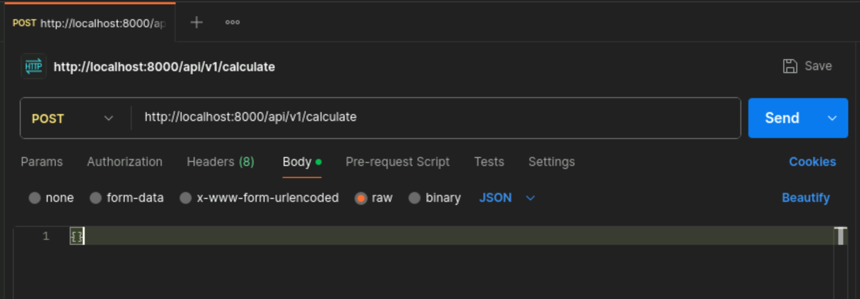
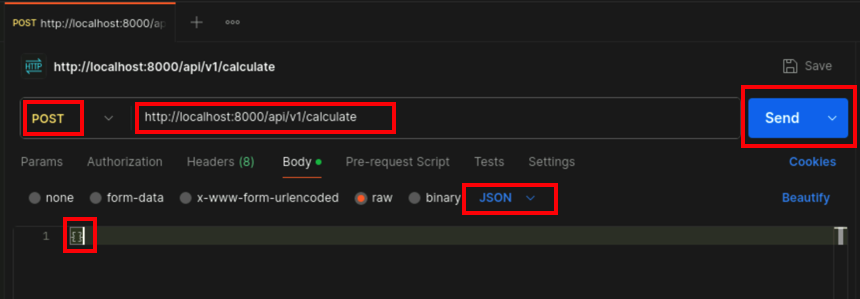
JSK edits 1

diff --git a/content/01HTTP/Task2.md b/content/01HTTP/Task2.md
@@ -6,17 +6,40 @@ weight: 5
 
 **According to the "manpage":** netcat is  a simple unix utility which reads and writes data across network connections, using TCP or UDP protocol. It is designed to be a reliable "back-end" tool  that  can  be used  directly or easily driven by other programs and scripts.  At the same time, it is a feature-rich network debugging and exploration tool, since it can create almost any  kind of  connection you would need and has several interesting built-in capabilities.  Netcat, or "nc" as the actual program is named, should have been supplied long ago as another one of those cryptic but standard Unix tools.
 
-We will be using cetcat to craft http calls to our flask application.  These will all be made against "localhost", but it could just as easily use a public URL.
+We will be using Netcat to craft a series of HTTP calls to our flask application and observing the resulting actions.  We are using "localhost" as our destination because we are executing NC from the same Kali Linux instance that's hosting the Flask Web App, but it could just as easily use a public URL.
 
-## Make your first call
-For this first example, we want to use Wireshark to watch the interaction between netcat and the server.
+## Make your first web call
+For this first example, we want to use Wireshark to watch the interaction between netcat and the Flask web server.
 
 - In wireshark, select **Loopback:lo** as the interface and enter ```host 127.0.0.1 and port 8000``` into the capture filter
 
 ![Shark start](shark_start.png)
 
+{{% notice warning %}} 
 
-- Back in our Terminal, let's start the tcp connection
+Please take care when entering the commands below. Please enter the commands **one line at a time**, and be sure to hit enter twice after each web command. 
+
+  For Example:
+  
+  1. Open the TCP 3-way handshake and wait for the return
+    
+  ```
+  nc localhost 8000 -vvv
+  ```
+
+  2. Enter the HTTP request
+
+  ```
+  GET /hello HTTP/1.1
+  ``` 
+
+  3. Hit enter 2 times>
+  
+{{% /notice %}}
+
+
+
+- From the 2nd ssh session terminal to Kali Linux, let's start the tcp connection
 
 ```
 nc localhost 8000 -vvv
@@ -28,14 +51,12 @@ nc localhost 8000 -vvv
 
 - Now let's finish the call by adding L7 comonents 
 
-{{% notice info %}} When making the below calls, you will not want to try and paste them in all at once.  Please enter the commands **one line at a time**. {{% /notice %}}
-
 ```
 GET /hello HTTP/1.1
 <hit enter again>
 ```
 
-- You should see some response headers returned as well as the programmed response from the app. We can see the **200 OK** status, meaning that our application is actually working and we called a valid resource.
+- You should see some response headers returned as well as the programmed response from the app. We can see the **200 OK** status, meaning that our application is actually working and we requested a valid resource.
 
   ![GET Hello](nc_get_hello.png)
 
@@ -56,11 +77,14 @@ We also get some other useful information about the application, including the A
 
 ## Method Not Allowed
 
-- In our first call above, we used the **GET** method against http://localhost:8000/hello.  Let's try the same thing against a different URL
+- In our first call above, we used the **GET** method against http://localhost:8000/hello.  Let's try the same thing against a different resource
 
 
 ```
 nc localhost 8000 -vvv
+```
+
+```
 GET /login  HTTP/1.1
 <hit enter again>
 ```
@@ -71,7 +95,7 @@ GET /login  HTTP/1.1
 
 </details>
 
-- As you can see, we got the **Method Not Allowed (405)** error. In the example output, you can see that we only allow **POST** and **OTIONS** methods.
+- As you can see, we got the **Method Not Allowed (405)** error. In the example output, you can see that we only allow **POST** and **OPTIONS** methods for the /login resource.
 
 ## Form Data
 
@@ -79,6 +103,8 @@ The FormData interface provides a way to construct a set of key/value pairs repr
 
 ```
 nc localhost 8000 -vvv
+```
+```
 POST /login HTTP/1.1
 Content-Type: application/x-www-form-urlencoded
 Content-Length: 34
@@ -100,6 +126,9 @@ JavaScript Object Notation (JSON) is a text-based format for representing and ex
 
 For mor information about JSON, click on [this link](https://www.w3schools.com/js/js_json_intro.asp).
 
+```
+nc localhost 8000 -vvv
+```
 ```
 POST /save HTTP/1.1
 Content-Type: application/json

diff --git a/content/02API/Task2.md b/content/02API/Task2.md
@@ -47,11 +47,11 @@ Postman
 
 ## Interact with REST API using HTTP Post
 HTTP POST is not another tool, it is a different communication method used by APIs to send data to the server. You can use e.g. `curl` or `Postman` to send a POST request to the API. In this task you are free to use the tool of your choice.
-1. Use `curl` or `Postman` to send a POST request to the API endpoint `http://localhost:8000/api/v1/calculator` and review the output. In the Body, add empty JSON object `{}` and select `JSON` in the dropdown.
+1. Use `curl` or `Postman` to send a POST request to the API endpoint `http://localhost:8000/api/v1/calculate` and review the output. In the Body, add empty JSON object `{}` and select `JSON` in the dropdown.
 ![img_5.png](img_5.png)
 If you use curl, a http header needs to be added to the request:
 ```bash
-curl -X POST 'http://localhost:8000/api/v1/calculator' -H 'Content-Type: application/json' -d '{}'
+curl -X POST 'http://localhost:8000/api/v1/calculate' -H 'Content-Type: application/json' -d '{}'
 ```
 ![img_6.png](img_6.png)
 2. Try to walk through the error messages (or the code) to understand, which parameters need to be provided to get a successful api response.
@@ -59,8 +59,8 @@ Hint: Example Payload:
 ```json
 {
     "operation": "add",
-    "number1": 1,
-    "number2": 2
+    "num1": 1,
+    "num2": 2
 }
 ```
 3. Test the endpoint with different operations like `add`, `subtract`, `multiply`, `divide` and review the output. Use different tools to send the requests.

diff --git a/content/02API/Task3.md b/content/02API/Task3.md
@@ -75,6 +75,7 @@ Postman
 ```
 ![img_11.png](img_11.png)
 13. Click on `Query` and review the output.
+
 14. Lets advance our GraphQL skills and adjust the queries using variables. Enter the following query:
 ```graphql
 query LaunchDetails($id: ID!) {
@@ -100,6 +101,7 @@ query LaunchDetails($id: ID!) {
 ![img_12.png](img_12.png)
 ![img_13.png](img_13.png)
 16. Click on `Query` and review the output.
+
 17. To get some more practice, try to write your own queries and explore the SpaceX API.
     - List the last 5 launches with their mission names and launch dates.
 {{% expand title="Solution" %}}
@@ -170,7 +172,13 @@ Postman
 ![img_14.png](img_14.png)
 6. Change the request type to `POST` and enter the URL `https://www.crcind.com/csp/samples/SOAP.Demo.cls`
 ![img_16.png](img_16.png)
-7. Click on the "Headers" tab. Add a new header with the key `Content-Type` and the value `text/xml` and `SOAPAction` with the value `http://tempuri.org/SOAP.Demo.GetByName`
+7. Click on the "Headers" tab. Add 2 new headers with the following key/value pairs:
+
+Key | Value
+--- | ---
+`Content-Type` | `text/xml`
+`SOAPAction` | `http://tempuri.org/SOAP.Demo.GetByName`
+
 ![img_19.png](img_19.png)
 8. Click on the "Body" tab. Select the `raw` option and enter the following XML:
 ```xml

diff --git a/content/01HTTP/Task3.md b/content/01HTTP/Task3.md
@@ -14,6 +14,7 @@ Almost all browsers have developer toolkits.  Below are some notable examples:
 ## Open Firefox and Developer Tools
 
 
+- Go to your Kali Linux RDP session
 - Open Firefox from the top left menu bar and navigate to **http://localhost:8000/**
 - Right click anywhere on the screen, which will cause a menu to pop up.  At the bottom of that menu, click on **Inspect(Q)**
   - This will cause "Web Developer Tools" to open at the bottom of the screen.  
@@ -70,7 +71,7 @@ On the left hand side of this screen is the "Storage tree", which lists all of t
 ![No Cook](no_cook.png)
 
 - Back on the web page (http://localhost:8000/view_feedback), click the link below the GIF to give feedback.
-  - Enter the Username (student) and Password (Fortinet1!) and select **Sign In**
+  - Enter the Username ```student``` and Password ```Fortinet1!``` and select **Sign In**
   - Type a name and some feedback into the appropriate boxes and click **Submit**
   
 - Back on the Storage tree, expand the Cookies Section and you will notice that you now have a cooked with a key/value of "name/whatever name you entered" in the "Table Widget" to the right of the Storage Tree

diff --git a/content/02API/Task4.md b/content/02API/Task4.md
@@ -4,7 +4,7 @@ menuTitle: "Task 4 - Advanced API handling"
 chapter: false
 weight: 4
 ---
-In this lab you will explore more advanced API handling techniques. This will based upon the previous labs and will require you to use the tools you have learned about.
+In this lab you will explore more advanced API handling techniques. This will build upon the previous labs and require you to use the tools you have learned about.
 We will cover topics like OAuth and JWT tokens, API security, and API testing.
 
 ## Documentation of APIs (aka Swagger UI)
@@ -62,6 +62,9 @@ def protected():
         return jsonify({"message": "OK: Authorized"}), 200
 ```
 9. Configure the HTTP header `X-API-KEY` with the correct value identified in the Flask Python code.
+10. Key | Value
+--- | ---
[1 lines of base64/hex data omitted]
 ![img_30.png](img_30.png)
 10. You can now try to access the protected endpoint with the correct token. You should receive a `200 OK` response.
 ![img_31.png](img_31.png)

diff --git a/content/01HTTP/_index.md b/content/01HTTP/_index.md
@@ -18,11 +18,15 @@ weight: 10
 
 For this lab, we will only need to interact with the Kali linux device.  We will use guacamole to create an RDP session in your browser.
 
-- In your browswer window, typ in the url below, substituting your Kali server IP.
+- In your browser window, type in the url below, substituting your Kali server IP.
 
-```
-https://<kali-IP>:8443
-```
+  {{% notice warning %}}
+  Kali Linux takes about 20 minutes to fully deploy, so you may get a connection refused error.  Please be patient and the login prompt will eventually appear.
+  {{% /notice %}}
+
+  ```
+  https://<kali-IP>:8443
+  ```
 - Accept all warnings and proceed to the site.
 - You will be prompted to login to Apache Guacamole.  
   - Type **guacadmin** for Username and enter **S3cur3P4ssw0rd123!**

diff --git a/content/01HTTP/Task1.md b/content/01HTTP/Task1.md
@@ -9,8 +9,8 @@ More information about Flask can be found at the [Flask documentation page](http
 
 
 
-## Navigate to the device CLI
-For this exercise, we will be using a very simple flask application.  Students will start the application within a python virtual environment. It us useful to monitor the debug messages for the application during user interactions. 
+## Navigate to the Kali Linux CLI
+For this exercise, we will be using a very simple flask application.  Students will start the application within a python virtual environment. It is useful to monitor the debug messages for the application during user interactions. 
 
 - We will be opening two CLI connections to Kali.  If you have the ability to ssh from your laptop, you can open two sessions:
 

diff --git a/content/02API/_index.md b/content/02API/_index.md
@@ -5,8 +5,9 @@ menuTitle: "Module 2: HTTP API Fundamentals"
 weight: 20
 ---
 
-In this Module it will be all about API's. We will start with the basics and then move on to more advanced topics.
-Topics:
+This Module covers API's starting with basics and then moving on to more advanced topics.
+
+### Topics:
 - interact with various types of API's using various tools
 - how to authentication is handled
 - how to document API's

diff --git a/content/00GettingStarted/_index.md b/content/00GettingStarted/_index.md
@@ -6,7 +6,7 @@ weight: 5
 
 ## Student Setup Diagram
 
-Each Student wil have it's own environment for the lab. The following diagram provides an overview on how the Student environment is rolled out.
+Each Student will have their own environment for the lab. The following diagram provides an overview of the Student environment.
 
    ![setup](/images/env_diagram.png)
 

diff --git a/content/03HTTPApplicationDesign/Task2.md b/content/03HTTPApplicationDesign/Task2.md
@@ -61,7 +61,7 @@ We've determined that there is some content which is not being served properly t
 
 </details>
 
-- Us Nano to fix the code.
+- Use Nano to fix the code.
     - Navigate up/down and left/right with the arrow keys
     - Delete text using the backspace or delete keys
     - Type text as normal with the keyboard
